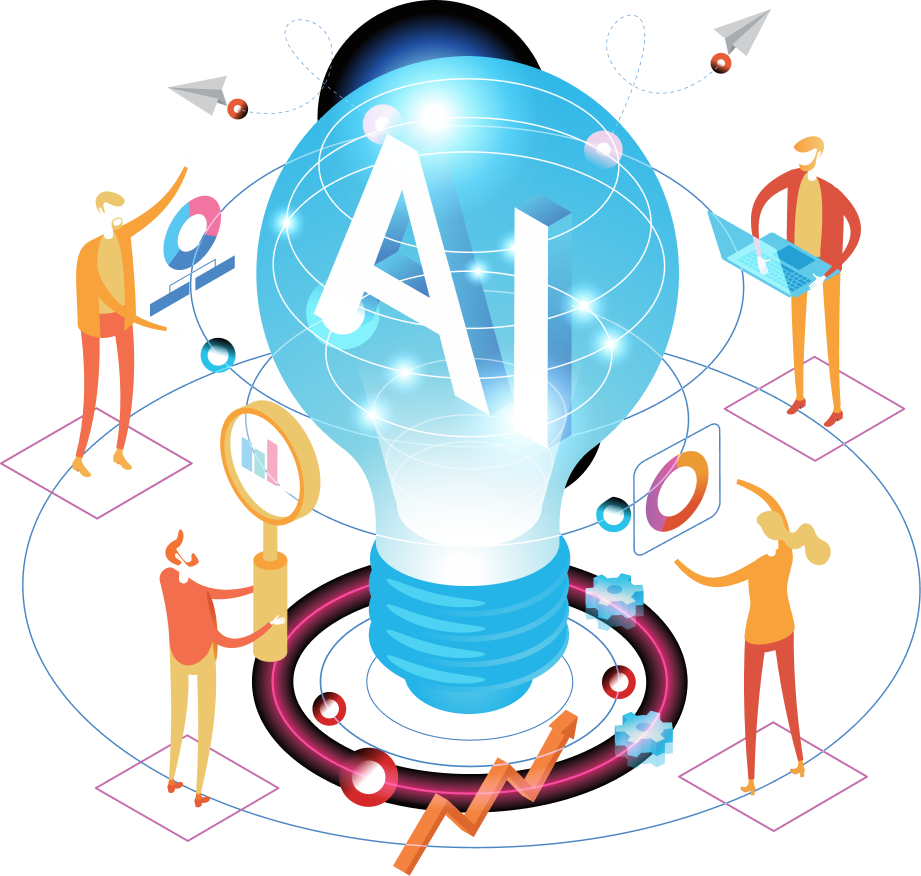
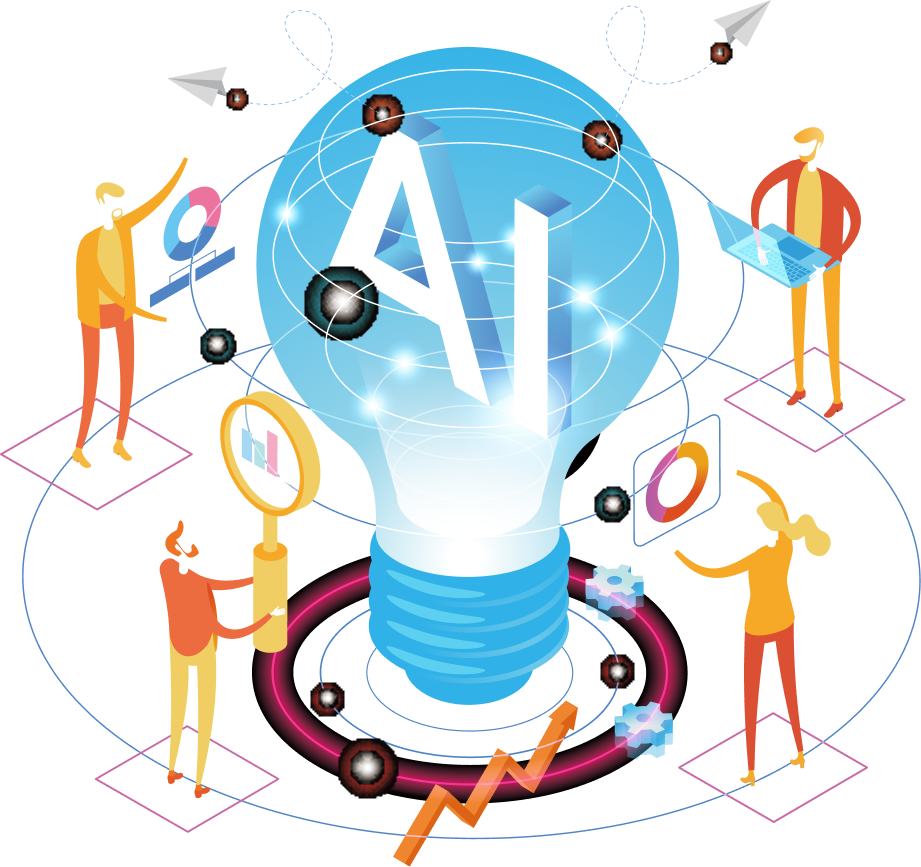
國際商情觀測站pdf完全上傳

diff --git a/index.html b/index.html
@@ -7,7 +7,6 @@
     <meta name="viewport" content="width=device-width, initial-scale=1.0" />
     <title>商業署計畫資源手冊</title>
     <link rel="icon" type="image/png" href="/assets/images/logo/logo-resource-map.png" />
-
     <!-- Google Fonts -->
     <link rel="preconnect" href="https://fonts.googleapis.com" />
     <link rel="preconnect" href="https://fonts.gstatic.com" crossorigin />
@@ -15,31 +14,19 @@
       href="https://fonts.googleapis.com/css2?family=Inter:wght@400;500;600;700&family=Noto+Sans+TC:wght@400;500;700&family=Noto+Serif+TC:wght@400;600;700&display=swap"
       rel="stylesheet"
     />
-
     <!-- Swiper CSS -->
     <link rel="stylesheet" href="https://cdn.jsdelivr.net/npm/swiper@11/swiper-bundle.min.css" />
-
     <!-- 主樣式（SCSS 編譯產出） -->
     <link rel="stylesheet" href="/assets/css/style.css" />
-
     <!-- Tailwind CSS -->
     <link rel="stylesheet" href="/assets/css/tailwind.css" />
   </head>
   <body>
     <!-- 跳至主要內容（無障礙 skip link，放於 body 最前方） -->
     <a href="#huContent" title="跳至主要內容" aria-label="跳至主要內容" class="skipTw skip-to-content">跳至主要內容</a>
-
-    <!-- ===== HERO BANNER ===== -->
-    <div class="w-full relative h-[calc(20vw+120px)] overflow-hidden">
-      <div class="w-full h-full opacity-30">
-        <img class="w-full h-full object-cover" src="/assets/images/home/line-bg.png" alt="" />
-      </div>
-      <div class="absolute bottom-0 left-0 w-full h-auto z-10">
-        <img class="w-full h-auto" src="/assets/images/home/building.png" alt="" />
-      </div>
-    </div>
-
-    <!-- ===== HEADER ===== -->
+    <!--=====HERO BANNER=====-->
+    <!-- <div class="w-full relative h-[calc(20vw+120px)] overflow-hidden"><div class="w-full h-full opacity-30"><img class="w-full h-full object-cover"src="/assets/images/home/line-bg.png"alt=""/></div><div class="absolute bottom-0 left-0 w-full h-auto z-10"><img class="w-full h-auto"src="/assets/images/home/building.png"alt=""/></div></div>-->
+    <!--=====HEADER=====-->
     <header class="site-header py-5" role="banner">
       <div class="header-inner container flex items-center justify-between gap-[60px]">
         <!-- Logo -->
@@ -119,13 +106,11 @@
 
     <!-- 遮罩背景 -->
     <div class="nav-backdrop" id="navBackdrop" aria-hidden="true"></div>
-
-    <!-- ===== MAIN ===== -->
+    <!--=====MAIN=====-->
     <main id="huContent">
       <a href="#C" title="中央內容區塊" id="AC" accesskey="C" name="C" class="sr-only">:::</a>
-
-      <!-- ===== ABOUT SECTION ===== -->
-      <section class="section-about" aria-labelledby="about-title">
+      <!--=====ABOUT SECTION=====-->
+      <section class="section-about" aria-label="首頁圖片輪播">
         <div class="about-layout">
           <!-- Swiper 輪播 -->
           <div class="swiper about-swiper" id="aboutSwiper">
@@ -134,61 +119,28 @@
               <div class="swiper-slide">
                 <div class="section-about__inner">
                   <div class="section-about__image">
-                    <img
-                      src="/assets/images/home/hero-illustration.png"
-                      alt="商業署計畫資源手冊插圖"
-                      width="508"
-                      height="442"
-                    />
-                  </div>
-                  <div class="section-about__content">
-                    <p class="label-about font-inter text-white" aria-hidden="true">about</p>
-                    <h1 id="about-title" class="about-title">商業署資源地圖</h1>
-                    <!-- <p class="about-subtitle">5大「成長補給包」</p> -->
-                    <p class="about-desc">
-                      商業署整合年度計畫資源，
-                      <br />
-                      陪伴您在變動的市場環境中找到方向、
-                      <br />
-                      提升能力、拓展商機！
-                      <br />
-                      現在就點選您的需求，與我們一起啟動成長的新動能！
-                    </p>
+                    <img src="/assets/images/news/banner.jpg" alt="商業署資源地圖 Banner" width="508" height="245" />
                   </div>
                 </div>
               </div>
-
               <!-- Slide 2 -->
               <div class="swiper-slide">
                 <a href="/news/" class="section-about__inner" title="最新消息" aria-label="前往最新消息">
                   <div class="section-about__image">
-                    <img src="/assets/images/news/news-hero.jpg" alt="草本菁萃正當紅插圖" width="508" height="245" />
-                  </div>
-                  <div class="section-about__content">
-                    <p class="label-about font-inter text-white" aria-hidden="true">BOTANICAL HAIR CARE SCIENCE</p>
-                    <h2 class="about-title">養髮新趨勢 草本菁萃正當紅</h2>
-                    <!-- <p class="about-subtitle">5大「成長補給包」</p> -->
-                    <p class="about-desc">
-                      近年來，自然舒活風潮盛行，
-                      <br />
-                      來自草本菁粹的天然養護力，
-                      <br />
-                      也成為新一代髮品的聰明提案。
-                      <br />
-                      今年夏天，不妨從髮絲開始，
-                      <br />
-                      迎向豐盈、清新的夏日時光！
-                    </p>
+                    <img
+                      src="/assets/images/news/news-hero.jpg"
+                      alt="養髮新趨勢草本菁萃正當紅 Banner"
+                      width="508"
+                      height="245"
+                    />
                   </div>
                 </a>
               </div>
             </div>
           </div>
-
-          <!-- 右側控制列：Pagination + 播放/暫停 -->
+          <!-- 右側控制列：Pagination+播放/暫停 -->
           <div class="about-controls">
             <div class="about-pagination" id="aboutPagination"></div>
-
             <button class="about-play-pause" id="aboutPlayPause" type="button" aria-label="暫停輪播">
               <!-- 暫停圖示（播放中顯示） -->
               <svg
@@ -215,9 +167,7 @@
           </div>
         </div>
       </section>
-
-      <!-- ===== 5大成長補給包 ===== -->
-
+      <!--=====5大成長補給包=====-->
       <!-- 1. Innovation：數位轉型與創新研發（圓左、文右） -->
       <div class="container">
         <section class="pkg-section pkg-section--left" aria-labelledby="pkg-innovation-title">
@@ -237,7 +187,6 @@
                 </div>
               </div>
             </div>
-
             <!-- 文字區塊 -->
             <div class="pkg-content">
               <p class="parallax-text pkg-en font-inter text-right" aria-hidden="true">Innovation</p>
@@ -249,7 +198,6 @@
             </div>
           </a>
         </section>
-
         <!-- 2. Green：節能減碳與永續發展（圓右、文左） -->
         <section class="pkg-section pkg-section--right" aria-labelledby="pkg-green-title">
           <a href="/green/" class="pkg-inner pkg-link itemset" aria-label="前往節能減碳與永續發展專區">
@@ -262,7 +210,6 @@
                 輔導＋補助~讓您省錢又有感
               </h2>
             </div>
-
             <!-- 圓形區塊 -->
             <div class="pkg-circle pkg-circle--green lg:order-1">
               <div class="pkg-bg absolute top-0 left-0 w-full h-full z-0"></div>
@@ -280,7 +227,6 @@
             </div>
           </a>
         </section>
-
         <!-- 3. Brand：品牌成長與國際拓展（圓左、文右） -->
         <section class="pkg-section pkg-section--left" aria-labelledby="pkg-brand-title">
           <a href="/brand/" class="pkg-inner pkg-link itemset" aria-label="前往品牌成長與國際拓展專區">
@@ -299,7 +245,6 @@
                 </div>
               </div>
             </div>
-
             <!-- 文字區塊 -->
             <div class="pkg-content">
               <p class="parallax-text pkg-en font-inter text-right" aria-hidden="true">Brand</p>
@@ -311,7 +256,6 @@
             </div>
           </a>
         </section>
-
         <!-- 4. District：商圈市場與街區特色（圓右、文左） -->
         <section class="pkg-section pkg-section--right" aria-labelledby="pkg-district-title">
           <a href="/district/" class="pkg-inner pkg-link itemset" aria-label="前往商圈市場與街區特色專區">
@@ -324,7 +268,6 @@
                 補助與活化讓街區市場動起來
               </h2>
             </div>
-
             <!-- 圓形區塊 -->
             <div class="pkg-circle pkg-circle--district lg:order-1">
               <div class="pkg-bg absolute top-0 left-0 w-full h-full z-0"></div>
@@ -342,7 +285,6 @@
             </div>
           </a>
         </section>
-
         <!-- 5. Insight：國際商情觀測站（圓左、文右） -->
         <section class="pkg-section pkg-section--left" aria-labelledby="pkg-insight-title">
           <a href="/insight/" class="pkg-inner pkg-link itemset" aria-label="前往國際商情觀測站專區">
@@ -361,7 +303,6 @@
                 </div>
               </div>
             </div>
-
             <!-- 文字區塊 -->
             <div class="pkg-content">
               <p class="parallax-text pkg-en font-inter text-right" aria-hidden="true">Insight</p>
@@ -375,8 +316,7 @@
         </section>
       </div>
     </main>
-
-    <!-- ===== FOOTER ===== -->
+    <!--=====FOOTER=====-->
     <!-- 由模板產生，請勿直接修改。執行：npm run sync:footer -->
     <footer class="site-footer" role="contentinfo">
       <a href="#Z" id="AZ" title="下方功能區塊" accesskey="Z" name="Z" class="sr-only">:::</a>
@@ -437,7 +377,6 @@
         </div>
       </div>
     </footer>
-
     <!-- Swiper JS -->
     <script src="https://cdn.jsdelivr.net/npm/swiper@11/swiper-bundle.min.js"></script>
     <script src="/assets/js/script.js"></script>

diff --git a/assets/css/_home.scss b/assets/css/_home.scss
@@ -44,27 +44,25 @@
 // ============================================================
 
 .section-about {
-  max-width: $max-width;
-  margin: 0 auto;
-  padding: 5em 2em 4em;
-  border-bottom: 1px solid white;
+  // max-width: $max-width;
+  margin: 87px auto 0 auto;
+  // padding: 5em 2em 4em;
+  // border-bottom: 1px solid white;
 
   &__inner {
-    display: grid;
-    grid-template-columns: 1fr 1fr;
-    gap: 4em;
-    align-items: center;
+    display: block;
   }
 
   &__image {
     display: flex;
     justify-content: center;
     align-items: center;
+    width: 100%;
 
     img {
       width: 100%;
-      max-width: 28em;
       height: auto;
+      display: block;
     }
   }
 
@@ -535,14 +533,14 @@
 
 @media (max-width: $bp-tablet) {
   .section-about {
+    margin-top: 105px;
+
     &__inner {
-      grid-template-columns: 1fr;
-      text-align: center;
+      display: block;
     }
 
     &__image img {
-      max-width: 20em;
-      margin: 0 auto;
+      max-width: none;
     }
   }
 
@@ -568,7 +566,7 @@
 
 @media (max-width: $bp-mobile) {
   .section-about {
-    padding: 3em 1.25em 2em;
+    // padding: 3em 1.25em 2em;
   }
 
   .pkg-section {

diff --git a/assets/css/style.css b/assets/css/style.css
@@ -577,26 +577,21 @@ footer {
 }
 
 .section-about {
-  max-width: 1440px;
-  margin: 0 auto;
-  padding: 5em 2em 4em;
-  border-bottom: 1px solid white;
+  margin: 87px auto 0 auto;
 }
 .section-about__inner {
-  display: grid;
-  grid-template-columns: 1fr 1fr;
-  gap: 4em;
-  align-items: center;
+  display: block;
 }
 .section-about__image {
   display: flex;
   justify-content: center;
   align-items: center;
+  width: 100%;
 }
 .section-about__image img {
   width: 100%;
-  max-width: 28em;
   height: auto;
+  display: block;
 }
 .section-about__content {
   display: flex;
@@ -991,13 +986,14 @@ footer {
   }
 }
 @media (max-width: 921px) {
+  .section-about {
+    margin-top: 105px;
+  }
   .section-about__inner {
-    grid-template-columns: 1fr;
-    text-align: center;
+    display: block;
   }
   .section-about__image img {
-    max-width: 20em;
-    margin: 0 auto;
+    max-width: none;
   }
   .pkg-section {
     padding: 4em 0;
@@ -1016,9 +1012,6 @@ footer {
   }
 }
 @media (max-width: 768px) {
-  .section-about {
-    padding: 3em 1.25em 2em;
-  }
   .pkg-section {
     padding: 2.5em 0;
   }

diff --git a/assets/css/tailwind.css b/assets/css/tailwind.css
@@ -1,1 +1,1 @@
-*,:after,:before{--tw-border-spacing-x:0;--tw-border-spacing-y:0;--tw-translate-x:0;--tw-translate-y:0;--tw-rotate:0;--tw-skew-x:0;--tw-skew-y:0;--tw-scale-x:1;--tw-scale-y:1;--tw-pan-x: ;--tw-pan-y: ;--tw-pinch-zoom: ;--tw-scroll-snap-strictness:proximity;--tw-gradient-from-position: ;--tw-gradient-via-position: ;--tw-gradient-to-position: ;--tw-ordinal: ;--tw-slashed-zero: ;--tw-numeric-figure: ;--tw-numeric-spacing: ;--tw-numeric-fraction: ;--tw-ring-inset: ;--tw-ring-offset-width:0px;--tw-ring-offset-color:#fff;--tw-ring-color:rgba(59,130,246,.5);--tw-ring-offset-shadow:0 0 #0000;--tw-ring-shadow:0 0 #0000;--tw-shadow:0 0 #0000;--tw-shadow-colored:0 0 #0000;--tw-blur: ;--tw-brightness: ;--tw-contrast: ;--tw-grayscale: ;--tw-hue-rotate: ;--tw-invert: ;--tw-saturate: ;--tw-sepia: ;--tw-drop-shadow: ;--tw-backdrop-blur: ;--tw-backdrop-brightness: ;--tw-backdrop-contrast: ;--tw-backdrop-grayscale: ;--tw-backdrop-hue-rotate: ;--tw-backdrop-invert: ;--tw-backdrop-opacity: ;--tw-backdrop-saturate: ;--tw-backdrop-sepia: ;--tw-contain-size: ;--tw-contain-layout: ;--tw-contain-paint: ;--tw-contain-style: }::backdrop{--tw-border-spacing-x:0;--tw-border-spacing-y:0;--tw-translate-x:0;--tw-translate-y:0;--tw-rotate:0;--tw-skew-x:0;--tw-skew-y:0;--tw-scale-x:1;--tw-scale-y:1;--tw-pan-x: ;--tw-pan-y: ;--tw-pinch-zoom: ;--tw-scroll-snap-strictness:proximity;--tw-gradient-from-position: ;--tw-gradient-via-position: ;--tw-gradient-to-position: ;--tw-ordinal: ;--tw-slashed-zero: ;--tw-numeric-figure: ;--tw-numeric-spacing: ;--tw-numeric-fraction: ;--tw-ring-inset: ;--tw-ring-offset-width:0px;--tw-ring-offset-color:#fff;--tw-ring-color:rgba(59,130,246,.5);--tw-ring-offset-shadow:0 0 #0000;--tw-ring-shadow:0 0 #0000;--tw-shadow:0 0 #0000;--tw-shadow-colored:0 0 #0000;--tw-blur: ;--tw-brightness: ;--tw-contrast: ;--tw-grayscale: ;--tw-hue-rotate: ;--tw-invert: ;--tw-saturate: ;--tw-sepia: ;--tw-drop-shadow: ;--tw-backdrop-blur: ;--tw-backdrop-brightness: ;--tw-backdrop-contrast: ;--tw-backdrop-grayscale: ;--tw-backdrop-hue-rotate: ;--tw-backdrop-invert: ;--tw-backdrop-opacity: ;--tw-backdrop-saturate: ;--tw-backdrop-sepia: ;--tw-contain-size: ;--tw-contain-layout: ;--tw-contain-paint: ;--tw-contain-style: }/*! tailwindcss v3.4.19 | MIT License | https://tailwindcss.com*/*,:after,:before{box-sizing:border-box;border:0 solid #e5e7eb}:after,:before{--tw-content:""}:host,html{line-height:1.5;-webkit-text-size-adjust:100%;-moz-tab-size:4;-o-tab-size:4;tab-size:4;font-family:Noto Sans TC,Inter,sans-serif;font-feature-settings:normal;font-variation-settings:normal;-webkit-tap-highlight-color:transparent}body{margin:0;line-height:inherit}hr{height:0;color:inherit;border-top-width:1px}abbr:where([title]){-webkit-text-decoration:underline dotted;text-decoration:underline dotted}h1,h2,h3,h4,h5,h6{font-size:inherit;font-weight:inherit}a{color:inherit;text-decoration:inherit}b,strong{font-weight:bolder}code,kbd,pre,samp{font-family:ui-monospace,SFMono-Regular,Menlo,Monaco,Consolas,Liberation Mono,Courier New,monospace;font-feature-settings:normal;font-variation-settings:normal;font-size:1em}small{font-size:80%}sub,sup{font-size:75%;line-height:0;position:relative;vertical-align:baseline}sub{bottom:-.25em}sup{top:-.5em}table{text-indent:0;border-color:inherit;border-collapse:collapse}button,input,optgroup,select,textarea{font-family:inherit;font-feature-settings:inherit;font-variation-settings:inherit;font-size:100%;font-weight:inherit;line-height:inherit;letter-spacing:inherit;color:inherit;margin:0;padding:0}button,select{text-transform:none}button,input:where([type=button]),input:where([type=reset]),input:where([type=submit]){-webkit-appearance:button;background-color:transparent;background-image:none}:-moz-focusring{outline:auto}:-moz-ui-invalid{box-shadow:none}progress{vertical-align:baseline}::-webkit-inner-spin-button,::-webkit-outer-spin-button{height:auto}[type=search]{-webkit-appearance:textfield;outline-offset:-2px}::-webkit-search-decoration{-webkit-appearance:none}::-webkit-file-upload-button{-webkit-appearance:button;font:inherit}summary{display:list-item}blockquote,dd,dl,figure,h1,h2,h3,h4,h5,h6,hr,p,pre{margin:0}fieldset{margin:0}fieldset,legend{padding:0}menu,ol,ul{list-style:none;margin:0;padding:0}dialog{padding:0}textarea{resize:vertical}input::-moz-placeholder,textarea::-moz-placeholder{opacity:1;color:#9ca3af}input::placeholder,textarea::placeholder{opacity:1;color:#9ca3af}[role=button],button{cursor:pointer}:disabled{cursor:default}audio,canvas,embed,iframe,img,object,svg,video{display:block;vertical-align:middle}img,video{max-width:100%;height:auto}[hidden]:where(:not([hidden=until-found])){display:none}.container{width:100%}.sr-only{position:absolute;width:1px;height:1px;padding:0;margin:-1px;overflow:hidden;clip:rect(0,0,0,0);white-space:nowrap;border-width:0}.absolute{position:absolute}.relative{position:relative}.-top-\[175px\]{top:-175px}.bottom-0{bottom:0}.left-0{left:0}.top-0{top:0}.z-0{z-index:0}.z-10{z-index:10}.mx-auto{margin-left:auto;margin-right:auto}.my-8{margin-top:2rem;margin-bottom:2rem}.mb-20{margin-bottom:5rem}.mb-4{margin-bottom:1rem}.mb-8{margin-bottom:2rem}.mt-10{margin-top:2.5rem}.mt-3{margin-top:.75rem}.mt-4{margin-top:1rem}.block{display:block}.inline{display:inline}.flex{display:flex}.inline-flex{display:inline-flex}.grid{display:grid}.hidden{display:none}.aspect-square{aspect-ratio:1/1}.\!h-full{height:100%!important}.h-\[1\.1em\]{height:1.1em}.h-\[calc\(20vw\+120px\)\]{height:calc(20vw + 120px)}.h-auto{height:auto}.h-full{height:100%}.min-h-dvh{min-height:100dvh}.w-\[1\.1em\]{width:1.1em}.w-\[300px\]{width:300px}.w-full{width:100%}.max-w-\[150px\]{max-width:150px}.flex-1{flex:1 1 0%}.shrink-0{flex-shrink:0}.transform{transform:translate(var(--tw-translate-x),var(--tw-translate-y)) rotate(var(--tw-rotate)) skewX(var(--tw-skew-x)) skewY(var(--tw-skew-y)) scaleX(var(--tw-scale-x)) scaleY(var(--tw-scale-y))}.resize{resize:both}.grid-cols-4{grid-template-columns:repeat(4,minmax(0,1fr))}.flex-col{flex-direction:column}.flex-wrap{flex-wrap:wrap}.items-center{align-items:center}.justify-end{justify-content:flex-end}.justify-center{justify-content:center}.justify-between{justify-content:space-between}.gap-2{gap:.5rem}.gap-5{gap:1.25rem}.gap-\[60px\]{gap:60px}.space-y-2>:not([hidden])~:not([hidden]){--tw-space-y-reverse:0;margin-top:calc(.5rem*(1 - var(--tw-space-y-reverse)));margin-bottom:calc(.5rem*var(--tw-space-y-reverse))}.space-y-3>:not([hidden])~:not([hidden]){--tw-space-y-reverse:0;margin-top:calc(.75rem*(1 - var(--tw-space-y-reverse)));margin-bottom:calc(.75rem*var(--tw-space-y-reverse))}.self-end{align-self:flex-end}.overflow-hidden{overflow:hidden}.border-gray-200{--tw-border-opacity:1;border-color:rgb(229 231 235/var(--tw-border-opacity,1))}.object-contain{-o-object-fit:contain;object-fit:contain}.object-cover{-o-object-fit:cover;object-fit:cover}.p-5{padding:1.25rem}.px-\[10\%\]{padding-left:10%;padding-right:10%}.px-\[15\%\]{padding-left:15%;padding-right:15%}.px-\[20\%\]{padding-left:20%;padding-right:20%}.px-\[22\%\]{padding-left:22%;padding-right:22%}.px-\[25\%\]{padding-left:25%;padding-right:25%}.px-\[40px\]{padding-left:40px;padding-right:40px}.py-5{padding-top:1.25rem;padding-bottom:1.25rem}.pb-10{padding-bottom:2.5rem}.pt-10{padding-top:2.5rem}.pt-3{padding-top:.75rem}.text-left{text-align:left}.text-right{text-align:right}.text-justify{text-align:justify}.font-inter{font-family:Inter,Noto Sans TC,sans-serif}.text-\[1em\]{font-size:1em}.text-\[clamp\(1\.25em\2c _0\.833vw_\+_0\.5em\2c _1\.5em\)\]{font-size:clamp(1.25em,.833vw + .5em,1.5em)}.text-\[clamp\(1\.25em\2c _2\.4vw_\+_0\.5em\2c _3\.1875em\)\]{font-size:clamp(1.25em,2.4vw + .5em,3.1875em)}.text-\[clamp\(1em\2c _1\.354vw_\+_0\.594em\2c _1\.8125em\)\]{font-size:clamp(1em,1.354vw + .594em,1.8125em)}.text-\[clamp\(1em\2c _2vw\2c _2em\)\]{font-size:clamp(1em,2vw,2em)}.font-bold{font-weight:700}.font-medium{font-weight:500}.font-normal{font-weight:400}.leading-\[1\.85\]{line-height:1.85}.text-\[\#231815\]{--tw-text-opacity:1;color:rgb(35 24 21/var(--tw-text-opacity,1))}.text-alert{--tw-text-opacity:1;color:rgb(191 74 70/var(--tw-text-opacity,1))}.text-dark{--tw-text-opacity:1;color:rgb(16 18 21/var(--tw-text-opacity,1))}.text-white{--tw-text-opacity:1;color:rgb(255 255 255/var(--tw-text-opacity,1))}.underline{text-decoration-line:underline}.underline-offset-4{text-underline-offset:4px}.opacity-30{opacity:.3}.blur{--tw-blur:blur(8px)}.blur,.filter{filter:var(--tw-blur) var(--tw-brightness) var(--tw-contrast) var(--tw-grayscale) var(--tw-hue-rotate) var(--tw-invert) var(--tw-saturate) var(--tw-sepia) var(--tw-drop-shadow)}.transition-all{transition-property:all;transition-timing-function:cubic-bezier(.4,0,.2,1);transition-duration:.15s}.transition-transform{transition-property:transform;transition-timing-function:cubic-bezier(.4,0,.2,1);transition-duration:.15s}.duration-300{transition-duration:.3s}.hover\:-translate-y-0\.5:hover{--tw-translate-y:-0.125rem;transform:translate(var(--tw-translate-x),var(--tw-translate-y)) rotate(var(--tw-rotate)) skewX(var(--tw-skew-x)) skewY(var(--tw-skew-y)) scaleX(var(--tw-scale-x)) scaleY(var(--tw-scale-y))}.hover\:gap-3:hover{gap:.75rem}.hover\:text-primary:hover{--tw-text-opacity:1;color:rgb(24 94 170/var(--tw-text-opacity,1))}.hover\:underline:hover{text-decoration-line:underline}.focus-visible\:border-\[3px\]:focus-visible{border-width:3px}.focus-visible\:border-dashed:focus-visible{border-style:dashed}.focus-visible\:border-primary:focus-visible{--tw-border-opacity:1;border-color:rgb(24 94 170/var(--tw-border-opacity,1))}.focus-visible\:bg-primary:focus-visible{--tw-bg-opacity:1;background-color:rgb(24 94 170/var(--tw-bg-opacity,1))}.focus-visible\:bg-white:focus-visible{--tw-bg-opacity:1;background-color:rgb(255 255 255/var(--tw-bg-opacity,1))}.focus-visible\:text-primary:focus-visible{--tw-text-opacity:1;color:rgb(24 94 170/var(--tw-text-opacity,1))}.focus-visible\:text-white:focus-visible{--tw-text-opacity:1;color:rgb(255 255 255/var(--tw-text-opacity,1))}.focus-visible\:outline-none:focus-visible{outline:2px solid transparent;outline-offset:2px}.focus-visible\:outline:focus-visible{outline-style:solid}.focus-visible\:outline-2:focus-visible{outline-width:2px}.focus-visible\:outline-offset-4:focus-visible{outline-offset:4px}.focus-visible\:outline-primary:focus-visible{outline-color:#185eaa}.group:hover .group-hover\:-translate-y-0\.5{--tw-translate-y:-0.125rem}.group:hover .group-hover\:-translate-y-0\.5,.group:hover .group-hover\:translate-x-1{transform:translate(var(--tw-translate-x),var(--tw-translate-y)) rotate(var(--tw-rotate)) skewX(var(--tw-skew-x)) skewY(var(--tw-skew-y)) scaleX(var(--tw-scale-x)) scaleY(var(--tw-scale-y))}.group:hover .group-hover\:translate-x-1{--tw-translate-x:0.25rem}@media (max-width:921px){.lg\:order-1{order:1}.lg\:order-2{order:2}.lg\:flex{display:flex}.lg\:hidden{display:none}.lg\:grid-cols-2{grid-template-columns:repeat(2,minmax(0,1fr))}.lg\:flex-col{flex-direction:column}.lg\:gap-2{gap:.5rem}.lg\:text-center{text-align:center}}@media (max-width:768px){.md\:w-\[300px\]{width:300px}.md\:pb-10{padding-bottom:2.5rem}}@media (max-width:480px){.sm\:w-\[200px\]{width:200px}.sm\:grid-cols-1{grid-template-columns:repeat(1,minmax(0,1fr))}}.\[\&_img\]\:max-w-\[16em\] img{max-width:16em}
+*,:after,:before{--tw-border-spacing-x:0;--tw-border-spacing-y:0;--tw-translate-x:0;--tw-translate-y:0;--tw-rotate:0;--tw-skew-x:0;--tw-skew-y:0;--tw-scale-x:1;--tw-scale-y:1;--tw-pan-x: ;--tw-pan-y: ;--tw-pinch-zoom: ;--tw-scroll-snap-strictness:proximity;--tw-gradient-from-position: ;--tw-gradient-via-position: ;--tw-gradient-to-position: ;--tw-ordinal: ;--tw-slashed-zero: ;--tw-numeric-figure: ;--tw-numeric-spacing: ;--tw-numeric-fraction: ;--tw-ring-inset: ;--tw-ring-offset-width:0px;--tw-ring-offset-color:#fff;--tw-ring-color:rgba(59,130,246,.5);--tw-ring-offset-shadow:0 0 #0000;--tw-ring-shadow:0 0 #0000;--tw-shadow:0 0 #0000;--tw-shadow-colored:0 0 #0000;--tw-blur: ;--tw-brightness: ;--tw-contrast: ;--tw-grayscale: ;--tw-hue-rotate: ;--tw-invert: ;--tw-saturate: ;--tw-sepia: ;--tw-drop-shadow: ;--tw-backdrop-blur: ;--tw-backdrop-brightness: ;--tw-backdrop-contrast: ;--tw-backdrop-grayscale: ;--tw-backdrop-hue-rotate: ;--tw-backdrop-invert: ;--tw-backdrop-opacity: ;--tw-backdrop-saturate: ;--tw-backdrop-sepia: ;--tw-contain-size: ;--tw-contain-layout: ;--tw-contain-paint: ;--tw-contain-style: }::backdrop{--tw-border-spacing-x:0;--tw-border-spacing-y:0;--tw-translate-x:0;--tw-translate-y:0;--tw-rotate:0;--tw-skew-x:0;--tw-skew-y:0;--tw-scale-x:1;--tw-scale-y:1;--tw-pan-x: ;--tw-pan-y: ;--tw-pinch-zoom: ;--tw-scroll-snap-strictness:proximity;--tw-gradient-from-position: ;--tw-gradient-via-position: ;--tw-gradient-to-position: ;--tw-ordinal: ;--tw-slashed-zero: ;--tw-numeric-figure: ;--tw-numeric-spacing: ;--tw-numeric-fraction: ;--tw-ring-inset: ;--tw-ring-offset-width:0px;--tw-ring-offset-color:#fff;--tw-ring-color:rgba(59,130,246,.5);--tw-ring-offset-shadow:0 0 #0000;--tw-ring-shadow:0 0 #0000;--tw-shadow:0 0 #0000;--tw-shadow-colored:0 0 #0000;--tw-blur: ;--tw-brightness: ;--tw-contrast: ;--tw-grayscale: ;--tw-hue-rotate: ;--tw-invert: ;--tw-saturate: ;--tw-sepia: ;--tw-drop-shadow: ;--tw-backdrop-blur: ;--tw-backdrop-brightness: ;--tw-backdrop-contrast: ;--tw-backdrop-grayscale: ;--tw-backdrop-hue-rotate: ;--tw-backdrop-invert: ;--tw-backdrop-opacity: ;--tw-backdrop-saturate: ;--tw-backdrop-sepia: ;--tw-contain-size: ;--tw-contain-layout: ;--tw-contain-paint: ;--tw-contain-style: }/*! tailwindcss v3.4.19 | MIT License | https://tailwindcss.com*/*,:after,:before{box-sizing:border-box;border:0 solid #e5e7eb}:after,:before{--tw-content:""}:host,html{line-height:1.5;-webkit-text-size-adjust:100%;-moz-tab-size:4;-o-tab-size:4;tab-size:4;font-family:Noto Sans TC,Inter,sans-serif;font-feature-settings:normal;font-variation-settings:normal;-webkit-tap-highlight-color:transparent}body{margin:0;line-height:inherit}hr{height:0;color:inherit;border-top-width:1px}abbr:where([title]){-webkit-text-decoration:underline dotted;text-decoration:underline dotted}h1,h2,h3,h4,h5,h6{font-size:inherit;font-weight:inherit}a{color:inherit;text-decoration:inherit}b,strong{font-weight:bolder}code,kbd,pre,samp{font-family:ui-monospace,SFMono-Regular,Menlo,Monaco,Consolas,Liberation Mono,Courier New,monospace;font-feature-settings:normal;font-variation-settings:normal;font-size:1em}small{font-size:80%}sub,sup{font-size:75%;line-height:0;position:relative;vertical-align:baseline}sub{bottom:-.25em}sup{top:-.5em}table{text-indent:0;border-color:inherit;border-collapse:collapse}button,input,optgroup,select,textarea{font-family:inherit;font-feature-settings:inherit;font-variation-settings:inherit;font-size:100%;font-weight:inherit;line-height:inherit;letter-spacing:inherit;color:inherit;margin:0;padding:0}button,select{text-transform:none}button,input:where([type=button]),input:where([type=reset]),input:where([type=submit]){-webkit-appearance:button;background-color:transparent;background-image:none}:-moz-focusring{outline:auto}:-moz-ui-invalid{box-shadow:none}progress{vertical-align:baseline}::-webkit-inner-spin-button,::-webkit-outer-spin-button{height:auto}[type=search]{-webkit-appearance:textfield;outline-offset:-2px}::-webkit-search-decoration{-webkit-appearance:none}::-webkit-file-upload-button{-webkit-appearance:button;font:inherit}summary{display:list-item}blockquote,dd,dl,figure,h1,h2,h3,h4,h5,h6,hr,p,pre{margin:0}fieldset{margin:0}fieldset,legend{padding:0}menu,ol,ul{list-style:none;margin:0;padding:0}dialog{padding:0}textarea{resize:vertical}input::-moz-placeholder,textarea::-moz-placeholder{opacity:1;color:#9ca3af}input::placeholder,textarea::placeholder{opacity:1;color:#9ca3af}[role=button],button{cursor:pointer}:disabled{cursor:default}audio,canvas,embed,iframe,img,object,svg,video{display:block;vertical-align:middle}img,video{max-width:100%;height:auto}[hidden]:where(:not([hidden=until-found])){display:none}.container{width:100%}.sr-only{position:absolute;width:1px;height:1px;padding:0;margin:-1px;overflow:hidden;clip:rect(0,0,0,0);white-space:nowrap;border-width:0}.absolute{position:absolute}.relative{position:relative}.-top-\[175px\]{top:-175px}.bottom-0{bottom:0}.left-0{left:0}.top-0{top:0}.z-0{z-index:0}.z-10{z-index:10}.mx-auto{margin-left:auto;margin-right:auto}.my-8{margin-top:2rem;margin-bottom:2rem}.mb-20{margin-bottom:5rem}.mb-4{margin-bottom:1rem}.mb-8{margin-bottom:2rem}.mt-10{margin-top:2.5rem}.mt-3{margin-top:.75rem}.mt-4{margin-top:1rem}.block{display:block}.inline{display:inline}.flex{display:flex}.inline-flex{display:inline-flex}.grid{display:grid}.hidden{display:none}.aspect-square{aspect-ratio:1/1}.\!h-full{height:100%!important}.h-\[1\.1em\]{height:1.1em}.h-\[calc\(20vw\+120px\)\]{height:calc(20vw + 120px)}.h-auto{height:auto}.h-full{height:100%}.min-h-dvh{min-height:100dvh}.w-\[1\.1em\]{width:1.1em}.w-\[300px\]{width:300px}.w-full{width:100%}.max-w-\[150px\]{max-width:150px}.flex-1{flex:1 1 0%}.shrink-0{flex-shrink:0}.transform{transform:translate(var(--tw-translate-x),var(--tw-translate-y)) rotate(var(--tw-rotate)) skewX(var(--tw-skew-x)) skewY(var(--tw-skew-y)) scaleX(var(--tw-scale-x)) scaleY(var(--tw-scale-y))}.resize{resize:both}.grid-cols-4{grid-template-columns:repeat(4,minmax(0,1fr))}.flex-col{flex-direction:column}.flex-wrap{flex-wrap:wrap}.items-center{align-items:center}.justify-end{justify-content:flex-end}.justify-center{justify-content:center}.justify-between{justify-content:space-between}.gap-2{gap:.5rem}.gap-5{gap:1.25rem}.gap-\[60px\]{gap:60px}.space-y-2>:not([hidden])~:not([hidden]){--tw-space-y-reverse:0;margin-top:calc(.5rem*(1 - var(--tw-space-y-reverse)));margin-bottom:calc(.5rem*var(--tw-space-y-reverse))}.space-y-3>:not([hidden])~:not([hidden]){--tw-space-y-reverse:0;margin-top:calc(.75rem*(1 - var(--tw-space-y-reverse)));margin-bottom:calc(.75rem*var(--tw-space-y-reverse))}.self-end{align-self:flex-end}.overflow-hidden{overflow:hidden}.border-gray-200{--tw-border-opacity:1;border-color:rgb(229 231 235/var(--tw-border-opacity,1))}.object-contain{-o-object-fit:contain;object-fit:contain}.object-cover{-o-object-fit:cover;object-fit:cover}.p-5{padding:1.25rem}.px-\[10\%\]{padding-left:10%;padding-right:10%}.px-\[15\%\]{padding-left:15%;padding-right:15%}.px-\[20\%\]{padding-left:20%;padding-right:20%}.px-\[22\%\]{padding-left:22%;padding-right:22%}.px-\[25\%\]{padding-left:25%;padding-right:25%}.px-\[40px\]{padding-left:40px;padding-right:40px}.py-5{padding-top:1.25rem;padding-bottom:1.25rem}.pb-10{padding-bottom:2.5rem}.pt-10{padding-top:2.5rem}.pt-3{padding-top:.75rem}.text-left{text-align:left}.text-right{text-align:right}.text-justify{text-align:justify}.font-inter{font-family:Inter,Noto Sans TC,sans-serif}.text-\[1em\]{font-size:1em}.text-\[clamp\(1\.25em\2c _0\.833vw_\+_0\.5em\2c _1\.5em\)\]{font-size:clamp(1.25em,.833vw + .5em,1.5em)}.text-\[clamp\(1\.25em\2c _2\.4vw_\+_0\.5em\2c _3\.1875em\)\]{font-size:clamp(1.25em,2.4vw + .5em,3.1875em)}.text-\[clamp\(1em\2c _1\.354vw_\+_0\.594em\2c _1\.8125em\)\]{font-size:clamp(1em,1.354vw + .594em,1.8125em)}.text-\[clamp\(1em\2c _2vw\2c _2em\)\]{font-size:clamp(1em,2vw,2em)}.font-bold{font-weight:700}.font-medium{font-weight:500}.font-normal{font-weight:400}.leading-\[1\.85\]{line-height:1.85}.text-\[\#231815\]{--tw-text-opacity:1;color:rgb(35 24 21/var(--tw-text-opacity,1))}.text-alert{--tw-text-opacity:1;color:rgb(191 74 70/var(--tw-text-opacity,1))}.text-dark{--tw-text-opacity:1;color:rgb(16 18 21/var(--tw-text-opacity,1))}.underline{text-decoration-line:underline}.underline-offset-4{text-underline-offset:4px}.opacity-30{opacity:.3}.blur{--tw-blur:blur(8px)}.blur,.filter{filter:var(--tw-blur) var(--tw-brightness) var(--tw-contrast) var(--tw-grayscale) var(--tw-hue-rotate) var(--tw-invert) var(--tw-saturate) var(--tw-sepia) var(--tw-drop-shadow)}.transition-all{transition-property:all;transition-timing-function:cubic-bezier(.4,0,.2,1);transition-duration:.15s}.transition-transform{transition-property:transform;transition-timing-function:cubic-bezier(.4,0,.2,1);transition-duration:.15s}.duration-300{transition-duration:.3s}.hover\:-translate-y-0\.5:hover{--tw-translate-y:-0.125rem;transform:translate(var(--tw-translate-x),var(--tw-translate-y)) rotate(var(--tw-rotate)) skewX(var(--tw-skew-x)) skewY(var(--tw-skew-y)) scaleX(var(--tw-scale-x)) scaleY(var(--tw-scale-y))}.hover\:gap-3:hover{gap:.75rem}.hover\:text-primary:hover{--tw-text-opacity:1;color:rgb(24 94 170/var(--tw-text-opacity,1))}.hover\:underline:hover{text-decoration-line:underline}.focus-visible\:border-\[3px\]:focus-visible{border-width:3px}.focus-visible\:border-dashed:focus-visible{border-style:dashed}.focus-visible\:border-primary:focus-visible{--tw-border-opacity:1;border-color:rgb(24 94 170/var(--tw-border-opacity,1))}.focus-visible\:bg-primary:focus-visible{--tw-bg-opacity:1;background-color:rgb(24 94 170/var(--tw-bg-opacity,1))}.focus-visible\:bg-white:focus-visible{--tw-bg-opacity:1;background-color:rgb(255 255 255/var(--tw-bg-opacity,1))}.focus-visible\:text-primary:focus-visible{--tw-text-opacity:1;color:rgb(24 94 170/var(--tw-text-opacity,1))}.focus-visible\:text-white:focus-visible{--tw-text-opacity:1;color:rgb(255 255 255/var(--tw-text-opacity,1))}.focus-visible\:outline-none:focus-visible{outline:2px solid transparent;outline-offset:2px}.focus-visible\:outline:focus-visible{outline-style:solid}.focus-visible\:outline-2:focus-visible{outline-width:2px}.focus-visible\:outline-offset-4:focus-visible{outline-offset:4px}.focus-visible\:outline-primary:focus-visible{outline-color:#185eaa}.group:hover .group-hover\:-translate-y-0\.5{--tw-translate-y:-0.125rem}.group:hover .group-hover\:-translate-y-0\.5,.group:hover .group-hover\:translate-x-1{transform:translate(var(--tw-translate-x),var(--tw-translate-y)) rotate(var(--tw-rotate)) skewX(var(--tw-skew-x)) skewY(var(--tw-skew-y)) scaleX(var(--tw-scale-x)) scaleY(var(--tw-scale-y))}.group:hover .group-hover\:translate-x-1{--tw-translate-x:0.25rem}@media (max-width:921px){.lg\:order-1{order:1}.lg\:order-2{order:2}.lg\:flex{display:flex}.lg\:hidden{display:none}.lg\:grid-cols-2{grid-template-columns:repeat(2,minmax(0,1fr))}.lg\:flex-col{flex-direction:column}.lg\:gap-2{gap:.5rem}.lg\:text-center{text-align:center}}@media (max-width:768px){.md\:w-\[300px\]{width:300px}.md\:pb-10{padding-bottom:2.5rem}}@media (max-width:480px){.sm\:w-\[200px\]{width:200px}.sm\:grid-cols-1{grid-template-columns:repeat(1,minmax(0,1fr))}}.\[\&_img\]\:max-w-\[16em\] img{max-width:16em}